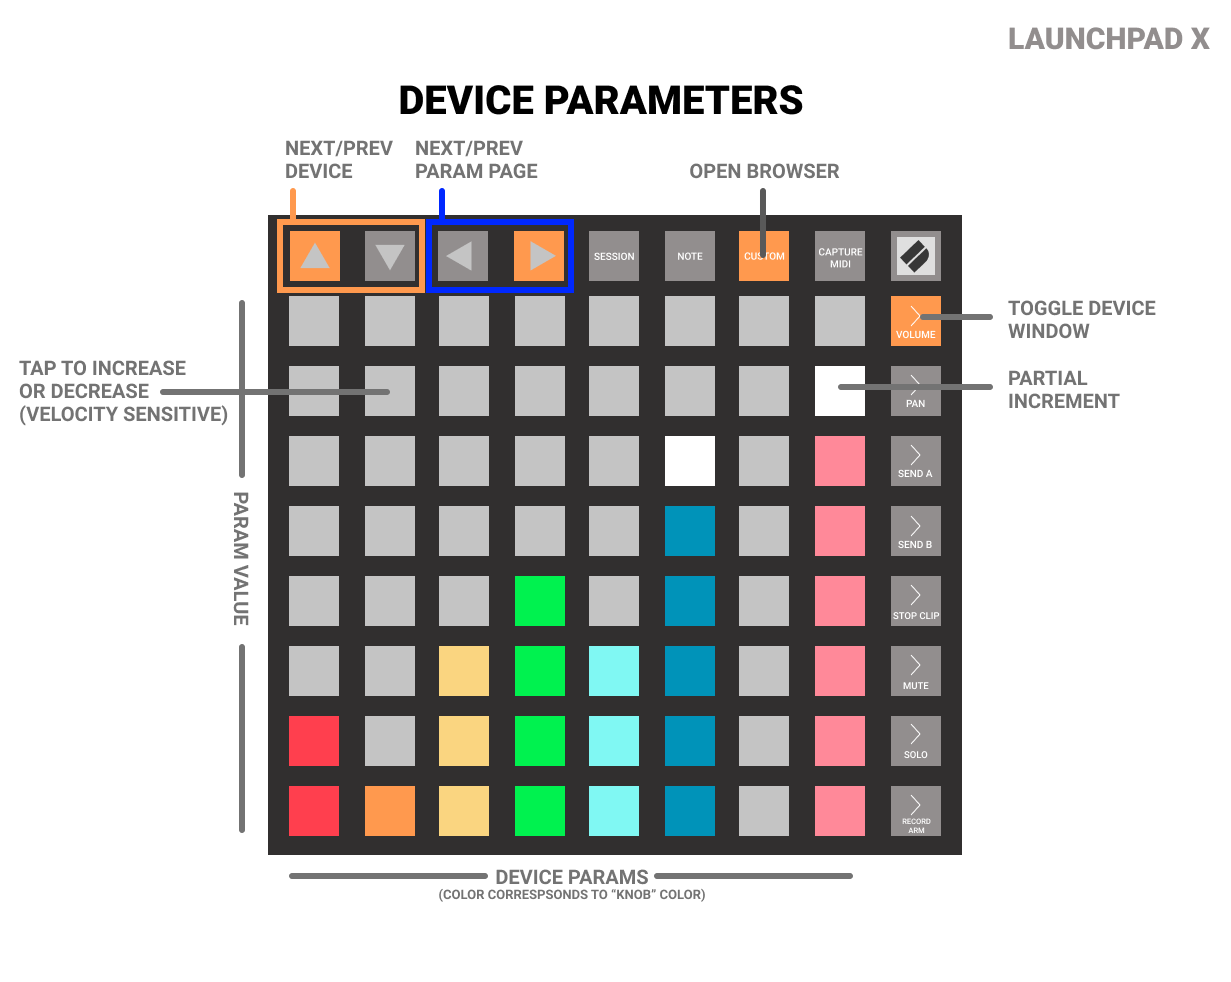
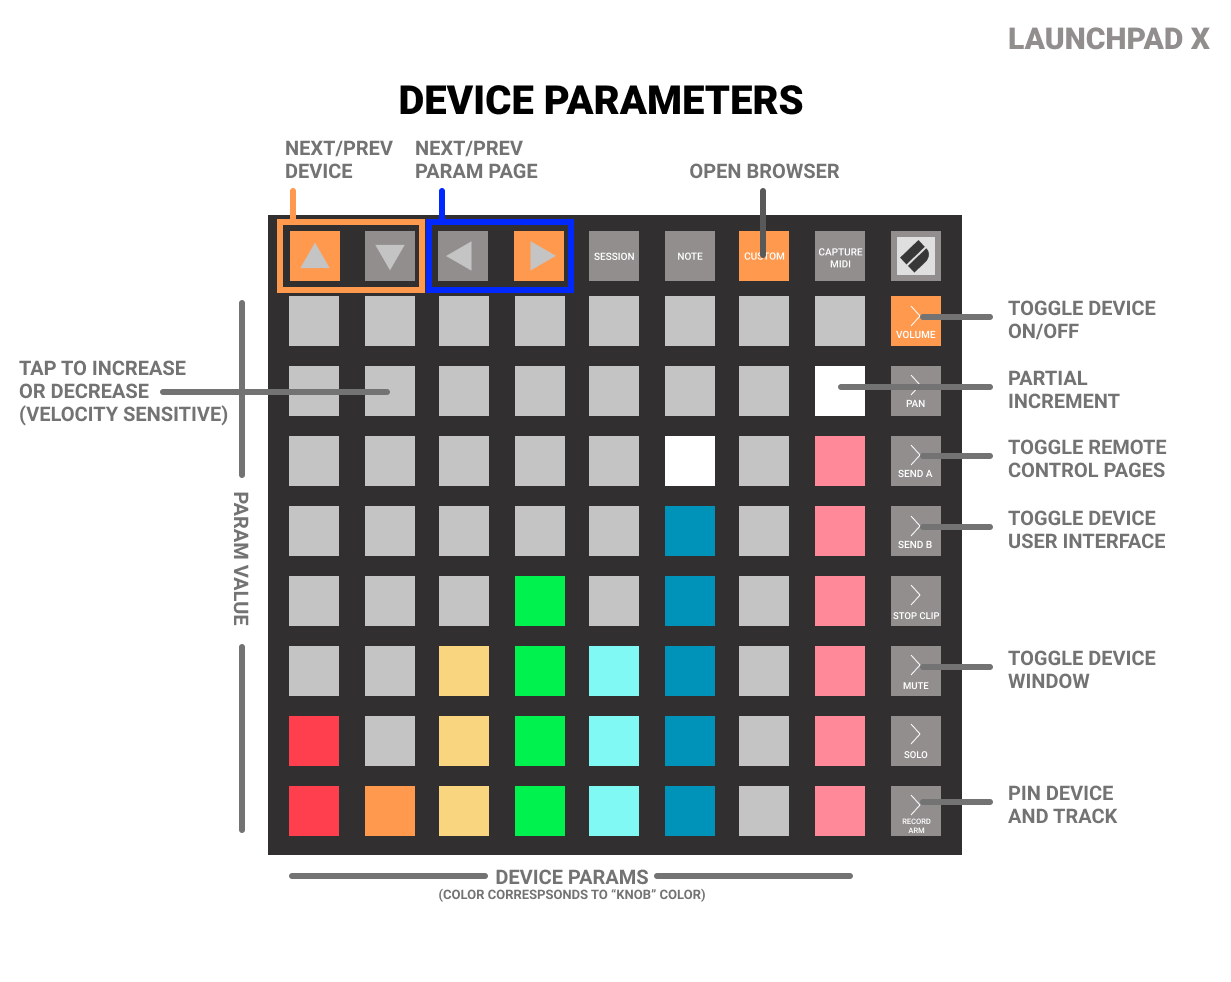
Update 18.5.

diff --git a/Novation/Novation-Launchpad.md b/Novation/Novation-Launchpad.md
@@ -53,7 +53,7 @@ Furthermore, some buttons were moved to a button which needs to be used in combi
 * **Shift+Click** - Tap Tempo.
 * **Undo** - Undo. Press Shift for Redo.
 * **Delete** (**Clear** on the Pro Mk3) - Hold the button for additional functionality in combination with other buttons knobs, see the view explanations below.
-* **Shift+Delete** - Toggle repeat
+* **Shift+Delete** - Toggle arranger loop
 * **Quantise** - Quantises the selected clip.
 * **Record Quantise** - Press multiple times to toggle through the record quantisation settings.
 * **Duplicate** - Always duplicates the first selected clip on the current track if pressed with no other button.
@@ -294,8 +294,16 @@ Press _"Device"_ to enter the **Device** mode:
 * Each column of the grid controls a parameter of the currently selected device.
 * These virtual faders use the same colors as the Bitwig highlight colors.
 * Hit buttons harder for faster fader change.
-* Cursor up/down to the next / previous device
-* Cursor left/right to the next / previous parameter bank
+* **Cursor up/down**: Select the next / previous device
+* **Cursor left/right**: Select the next / previous parameter bank
+* **Scene Button 1**: Toggle the device on/off
+* **Scene Button 2**: -
+* **Scene Button 3**: Toggle the display of the remote control parameters section
+* **Scene Button 4**: Toggle the display of the device user interface
+* **Scene Button 5**: -
+* **Scene Button 6**: Toggle the device window
+* **Scene Button 7**: -
+* **Scene Button 8**: Pin the selected device and track
 
 ![Device Mode](Diagrams/Launchpad/device-inst-parameters.png)
 

diff --git a/Bitwig/Changes.md b/Bitwig/Changes.md
@@ -1,10 +1,24 @@
 # Changes - Bitwig Studio
 
+**18.5.0 (unreleased)**
+
+* Requires Bitwig 4.3+
+* All devices
+  * Fixed: Poly Sequencer: Registration of notes is more reliable.
+* Komplete Kontrol MkII, Launchkey / Mini, Launchpad, Maschine
+  * New: Added new record button options to additionally enable automation writing.
+* Launchpad
+  * New: Pro Mk3: State of metronome is shown on Solo/Click button when Shift is pressed.
+  * New: Changing note repeat with cursor up/down+pad in sequencers works now also for Poly Sequencer.
+  * New: Record button (and Shift+Record button) can now be configured (instead of only being able to be flipped).
+  * New: Scene buttons in device mode have more functions: enable device, toggle user interface, toggle pinning.
+  * Fixed: Broke some cursor commands (e.g. tempo change) while fixing note repeat in 18.4.
+
 **18.4.0**
 
 * Requires Bitwig 4.3+
 * Launchpad
-  * Fixed: Changing note repeat with cursor+pad in sequencers did also switch the transposition.
+  * Fixed: Changing note repeat with cursor up/down+pad in sequencers did also switch the transposition.
 * MCU
   * New: Alt+Track selection buttons: Set the length of a new clip (was SHIFT combination).
   * New: Save button is lit.

diff --git a/Reaper/Changes.md b/Reaper/Changes.md
@@ -1,5 +1,20 @@
 # Changes - Cockos Reaper
 
+**18.5.0 (unreleased)**
+
+* Requires Reaper 6.71+
+* All devices
+  * Fixed: Poly Sequencer: Registration of notes is more reliable.
+  * Fixed: Fixed a NullPointerException with parsing preset files
+* Komplete Kontrol MkII, Launchkey / Mini, Launchpad, Maschine
+  * New: Added new record button options to additionally enable automation writing.
+* Launchpad
+  * New: Pro Mk3: State of metronome is shown on Solo/Click button when Shift is pressed.
+  * New: Changing note repeat with cursor up/down+pad in sequencers works now also for Poly Sequencer.
+  * New: Record button (and Shift+Record button) can now be configured (instead of only being able to be flipped).
+  * New: Scene buttons in device mode have more functions: enable device, toggle user interface, toggle pinning.
+  * Fixed: Broke some cursor commands (e.g. tempo change) while fixing note repeat in 18.4.
+
 **18.4.0**
 
 * Requires Reaper 6.71+
